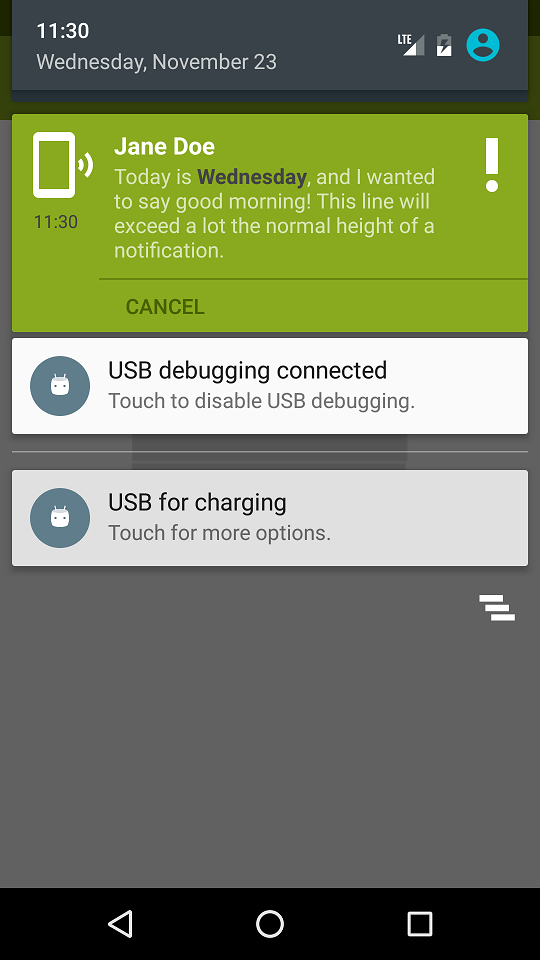
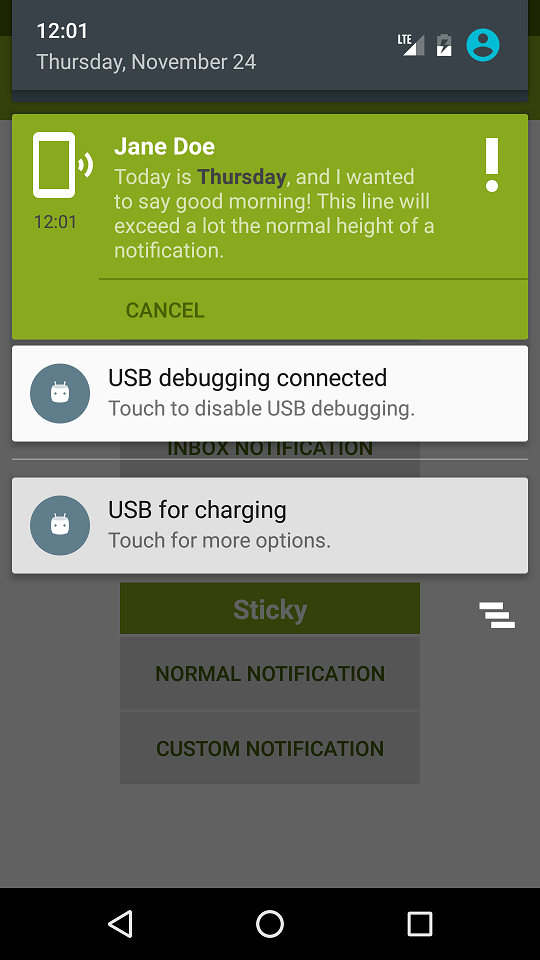
inbox style notifications

diff --git a/app/src/main/java/com/siziksu/notifications/ui/manager/notifications/InboxStyleNotification.java b/app/src/main/java/com/siziksu/notifications/ui/manager/notifications/InboxStyleNotification.java
@@ -13,18 +13,27 @@ import android.support.v4.app.NotificationCompat;
 import android.support.v4.app.NotificationManagerCompat;
 import android.support.v4.app.TaskStackBuilder;
 
+import com.google.gson.Gson;
+import com.google.gson.annotations.Expose;
+import com.google.gson.annotations.SerializedName;
+import com.google.gson.reflect.TypeToken;
 import com.siziksu.notifications.R;
 import com.siziksu.notifications.broadcast.NotificationReceiver;
 import com.siziksu.notifications.common.Constants;
+import com.siziksu.notifications.common.Preferences;
 import com.siziksu.notifications.common.Utils;
 
-final class NormalNotification {
+import java.util.ArrayList;
+import java.util.List;
+
+final class InboxStyleNotification {
 
     private static final int NO_FLAGS = 0;
 
     private final Context context;
+    private List<Message> messages = new ArrayList<>();
 
-    NormalNotification(Context context) {
+    InboxStyleNotification(Context context) {
         this.context = context;
     }
 
@@ -40,19 +49,42 @@ final class NormalNotification {
 
     NotificationCompat.Builder getBuilder(PendingIntent pending, PendingIntent pendingCancel, PendingIntent pendingDismiss) {
         Bitmap icon = BitmapFactory.decodeResource(context.getResources(), R.drawable.notification_icon);
-        NotificationCompat.BigTextStyle style = new NotificationCompat.BigTextStyle().bigText(Utils.getSpannable());
         Uri sound = RingtoneManager.getDefaultUri(RingtoneManager.TYPE_NOTIFICATION);
-        return new NotificationCompat.Builder(context)
+        NotificationCompat.Builder builder = new NotificationCompat.Builder(context)
                 .setSmallIcon(R.drawable.ic_phone_call_24dp)
                 .setLargeIcon(icon)
-                .setContentTitle(Constants.FAKE_USER)
-                .setContentText(Utils.getSpannable())
-                .setStyle(style)
                 .setSound(sound)
                 .setColor(Color.GREEN)
                 .addAction(R.drawable.ic_close_14dp, context.getString(R.string.action_cancel), pendingCancel)
                 .setContentIntent(pending)
                 .setDeleteIntent(pendingDismiss);
+        getNotificationContent(builder);
+        return builder;
+    }
+
+    private void getNotificationContent(NotificationCompat.Builder builder) {
+        if (messages.size() == 1) {
+            builder.setContentTitle((messages.get(0).owner));
+            builder.setContentText(messages.get(0).message);
+        } else {
+            builder.setContentTitle(messages.size() + context.getString(R.string.new_messages_suffix));
+            builder.setContentText(context.getString(R.string.you_have_new_messages));
+            NotificationCompat.InboxStyle inboxStyle = new NotificationCompat.InboxStyle();
+            inboxStyle.setBigContentTitle(messages.size() + context.getString(R.string.new_messages_suffix));
+            if (messages.size() > 3) {
+                inboxStyle.setSummaryText("+" + (messages.size() - 3) + context.getString(R.string.more_suffix));
+            }
+            for (int i = 0; i < messages.size(); i++) {
+                if (i == 3) {
+                    break;
+                }
+                inboxStyle.addLine(Utils.getInboxSpannable(messages.get(i).owner, messages.get(i).message));
+            }
+            if (messages.size() > 3) {
+                inboxStyle.addLine("...");
+            }
+            builder.setStyle(inboxStyle);
+        }
     }
 
     PendingIntent getPendingIntent(int requestCode, Class<?> clazz, boolean sticky) {
@@ -78,5 +110,36 @@ final class NormalNotification {
     void publish(int notificationId, Notification notification) {
         NotificationManagerCompat notificationManager = NotificationManagerCompat.from(context);
         notificationManager.notify(notificationId, notification);
+    }
+
+    void addMessage() {
+        String notifications = Preferences.get().getString(Constants.PREFERENCES_NOTIFICATIONS_KEY, "");
+        List<Message> list = new Gson().fromJson(notifications, new TypeToken<List<Message>>() {}.getType());
+        messages.clear();
+        if (list != null) {
+            messages.addAll(list);
+        }
+        messages.add(new Message(Constants.FAKE_USER, Constants.INBOX_FAKE_MESSAGE));
+        String notificationsToTrack = new Gson().toJson(messages);
+        Preferences.get().setString(Constants.PREFERENCES_NOTIFICATIONS_KEY, notificationsToTrack);
+    }
+
+    void clearMessages() {
+        Preferences.get().deleteKey(Constants.PREFERENCES_NOTIFICATIONS_KEY);
+    }
+
+    private class Message {
+
+        @SerializedName("owner")
+        @Expose
+        String owner;
+        @SerializedName("message")
+        @Expose
+        String message;
+
+        Message(String owner, String message) {
+            this.owner = owner;
+            this.message = message;
+        }
     }
 }

diff --git a/app/src/main/java/com/siziksu/notifications/ui/manager/notifications/NotificationsManager.java b/app/src/main/java/com/siziksu/notifications/ui/manager/notifications/NotificationsManager.java
@@ -17,15 +17,20 @@ public class NotificationsManager {
     private static final int NOTIFICATION_ID = 1147;
     private static final int REQUEST_CODE_CANCEL = 11470;
     private static final int REQUEST_CODE_DISMISS = 11471;
+    private static final int INBOX_NOTIFICATION_ID = 1845;
+    private static final int INBOX_REQUEST_CODE_CANCEL = 18450;
+    private static final int INBOX_REQUEST_CODE_DISMISS = 18451;
     private static final int CUSTOM_NOTIFICATION_ID = 1352;
     private static final int CUSTOM_REQUEST_CODE_CANCEL = 13520;
     private static final int CUSTOM_REQUEST_CODE_DISMISS = 13521;
 
     private final NormalNotification manager;
-    private CustomNotification custom;
+    private final InboxStyleNotification inboxManager;
+    private final CustomNotification custom;
 
     public NotificationsManager(Context context) {
         this.manager = new NormalNotification(context);
+        this.inboxManager = new InboxStyleNotification(context);
         this.custom = new CustomNotification(context);
     }
 
@@ -38,6 +43,20 @@ public class NotificationsManager {
         manager.publish(NOTIFICATION_ID, notification);
     }
 
+    public void showInboxNotification(boolean sticky) {
+        inboxManager.addMessage();
+        PendingIntent pending = inboxManager.getPendingIntent(INBOX_REQUEST_CODE_CANCEL, MainActivity.class, sticky);
+        PendingIntent pendingCancel = inboxManager.getPendingReceiver(INBOX_REQUEST_CODE_CANCEL, INBOX_NOTIFICATION_ID, NotificationReceiver.ACTION_CANCEL);
+        PendingIntent pendingDismiss = inboxManager.getPendingReceiver(INBOX_REQUEST_CODE_DISMISS, INBOX_NOTIFICATION_ID, NotificationReceiver.ACTION_DISMISS);
+        NotificationCompat.Builder builder = inboxManager.getBuilder(pending, pendingCancel, pendingDismiss);
+        Notification notification = inboxManager.getNotification(sticky, builder);
+        inboxManager.publish(INBOX_NOTIFICATION_ID, notification);
+    }
+
+    public void clearMessages() {
+        inboxManager.clearMessages();
+    }
+
     public void showCustomNotification(boolean sticky) {
         PendingIntent pending = custom.getPendingIntent(CUSTOM_REQUEST_CODE_CANCEL, MainActivity.class, sticky);
         PendingIntent pendingCancel = custom.getPendingReceiver(CUSTOM_REQUEST_CODE_CANCEL, CUSTOM_NOTIFICATION_ID, NotificationReceiver.ACTION_CANCEL);
@@ -45,13 +64,13 @@ public class NotificationsManager {
         RemoteViews remoteViews = custom.getRemoteViews(
                 R.layout.notification,
                 R.drawable.ic_phone_call_24dp,
-                Constants.USER,
+                Constants.FAKE_USER,
                 Utils.getSpannable()
         );
         RemoteViews bigRemoteViews = custom.getBigRemoteViews(
                 R.layout.notification_big,
                 R.drawable.ic_phone_call_48dp,
-                Constants.USER,
+                Constants.FAKE_USER,
                 Utils.getSpannable(),
                 R.drawable.ic_exclamation_48dp,
                 pendingCancel

diff --git a/app/src/main/java/com/siziksu/notifications/common/Utils.java b/app/src/main/java/com/siziksu/notifications/common/Utils.java
@@ -44,13 +44,24 @@ public class Utils {
 
     @NonNull
     public static Spannable getSpannable() {
-        String line = Constants.NOTIFICATION_MESSAGE;
+        String line = Constants.FAKE_MESSAGE;
         String day = getDayOfWeek();
         int startPos = line.indexOf(Constants.FIRST_BLOCK);
         String formatted = String.format(line, day);
         Spannable spannable = new SpannableString(formatted);
         spannable.setSpan(new StyleSpan(Typeface.BOLD), startPos, startPos + day.length(), Spannable.SPAN_EXCLUSIVE_EXCLUSIVE);
         spannable.setSpan(new ForegroundColorSpan(Color.DKGRAY), startPos, startPos + day.length(), Spannable.SPAN_EXCLUSIVE_EXCLUSIVE);
+        return spannable;
+    }
+
+    @NonNull
+    public static Spannable getInboxSpannable(String owner, String message) {
+        String line = Constants.INBOX_MESSAGE;
+        int startPos = line.indexOf(Constants.FIRST_BLOCK);
+        String formatted = String.format(line, owner, message);
+        Spannable spannable = new SpannableString(formatted);
+        spannable.setSpan(new StyleSpan(Typeface.BOLD), startPos, startPos + owner.length(), Spannable.SPAN_EXCLUSIVE_EXCLUSIVE);
+        spannable.setSpan(new ForegroundColorSpan(Color.DKGRAY), startPos, startPos + owner.length(), Spannable.SPAN_EXCLUSIVE_EXCLUSIVE);
         return spannable;
     }
 }

diff --git a/app/src/main/java/com/siziksu/notifications/common/Constants.java b/app/src/main/java/com/siziksu/notifications/common/Constants.java
@@ -4,7 +4,10 @@ public class Constants {
 
     public static final String TAG = "Custom Notifications";
     public static final String TIME_FORMAT = "HH:mm";
-    public static final String NOTIFICATION_MESSAGE = "Today is %1$s, and I wanted to say good morning! This line will exceed a lot the normal height of a notification.";
+    public static final String PREFERENCES_NOTIFICATIONS_KEY = "notifications";
     public static final String FIRST_BLOCK = "%1$s";
-    public static final String USER = "Jane Doe";
+    public static final String INBOX_MESSAGE = "%1$s: %2$s";
+    public static final String FAKE_USER = "Jane Doe";
+    public static final String FAKE_MESSAGE = "Today is %1$s, and I wanted to say good morning! This line will exceed a lot the normal height of a notification.";
+    public static final String INBOX_FAKE_MESSAGE = "This is a fake message that I write for you";
 }

diff --git a/app/src/main/java/com/siziksu/notifications/ui/activity/MainActivity.java b/app/src/main/java/com/siziksu/notifications/ui/activity/MainActivity.java
@@ -25,6 +25,7 @@ public class MainActivity extends AppCompatActivity {
         ButterKnife.bind(this);
         setSupportActionBar(toolbar);
         manager = new NotificationsManager(this);
+        manager.clearMessages();
     }
 
     @OnClick(R.id.buttonNormal)
@@ -35,6 +36,11 @@ public class MainActivity extends AppCompatActivity {
     @OnClick(R.id.buttonCustom)
     public void onCustomButtonClick() {
         manager.showCustomNotification(false);
+    }
+
+    @OnClick(R.id.buttonInboxStyle)
+    public void onInboxStyleButtonClick() {
+        manager.showInboxNotification(false);
     }
 
     @OnClick(R.id.buttonNormalSticky)

diff --git a/README.md b/README.md
@@ -1,12 +1,16 @@
 # CanvasAndCustomViews
 
-Example of Custom Notifications in Android.
+Example of Normal, BigTextStyle, InboxStyle and Custom Notifications in Android.
 
 ## Screenshots
 
 ![Screenshot](art/device-2016-11-22-172915.png)
 ![Screenshot](art/device-2016-11-22-172925.png)
 ![Screenshot](art/device-2016-11-22-172934.png)
+![Screenshot](art/device-2016-11-24-120045.png)
+![Screenshot](art/device-2016-11-24-120055.png)
+![Screenshot](art/device-2016-11-24-121923.png)
+![Screenshot](art/device-2016-11-24-121947.png)
 
 ## License
     Copyright 2016 Esteban Latre
